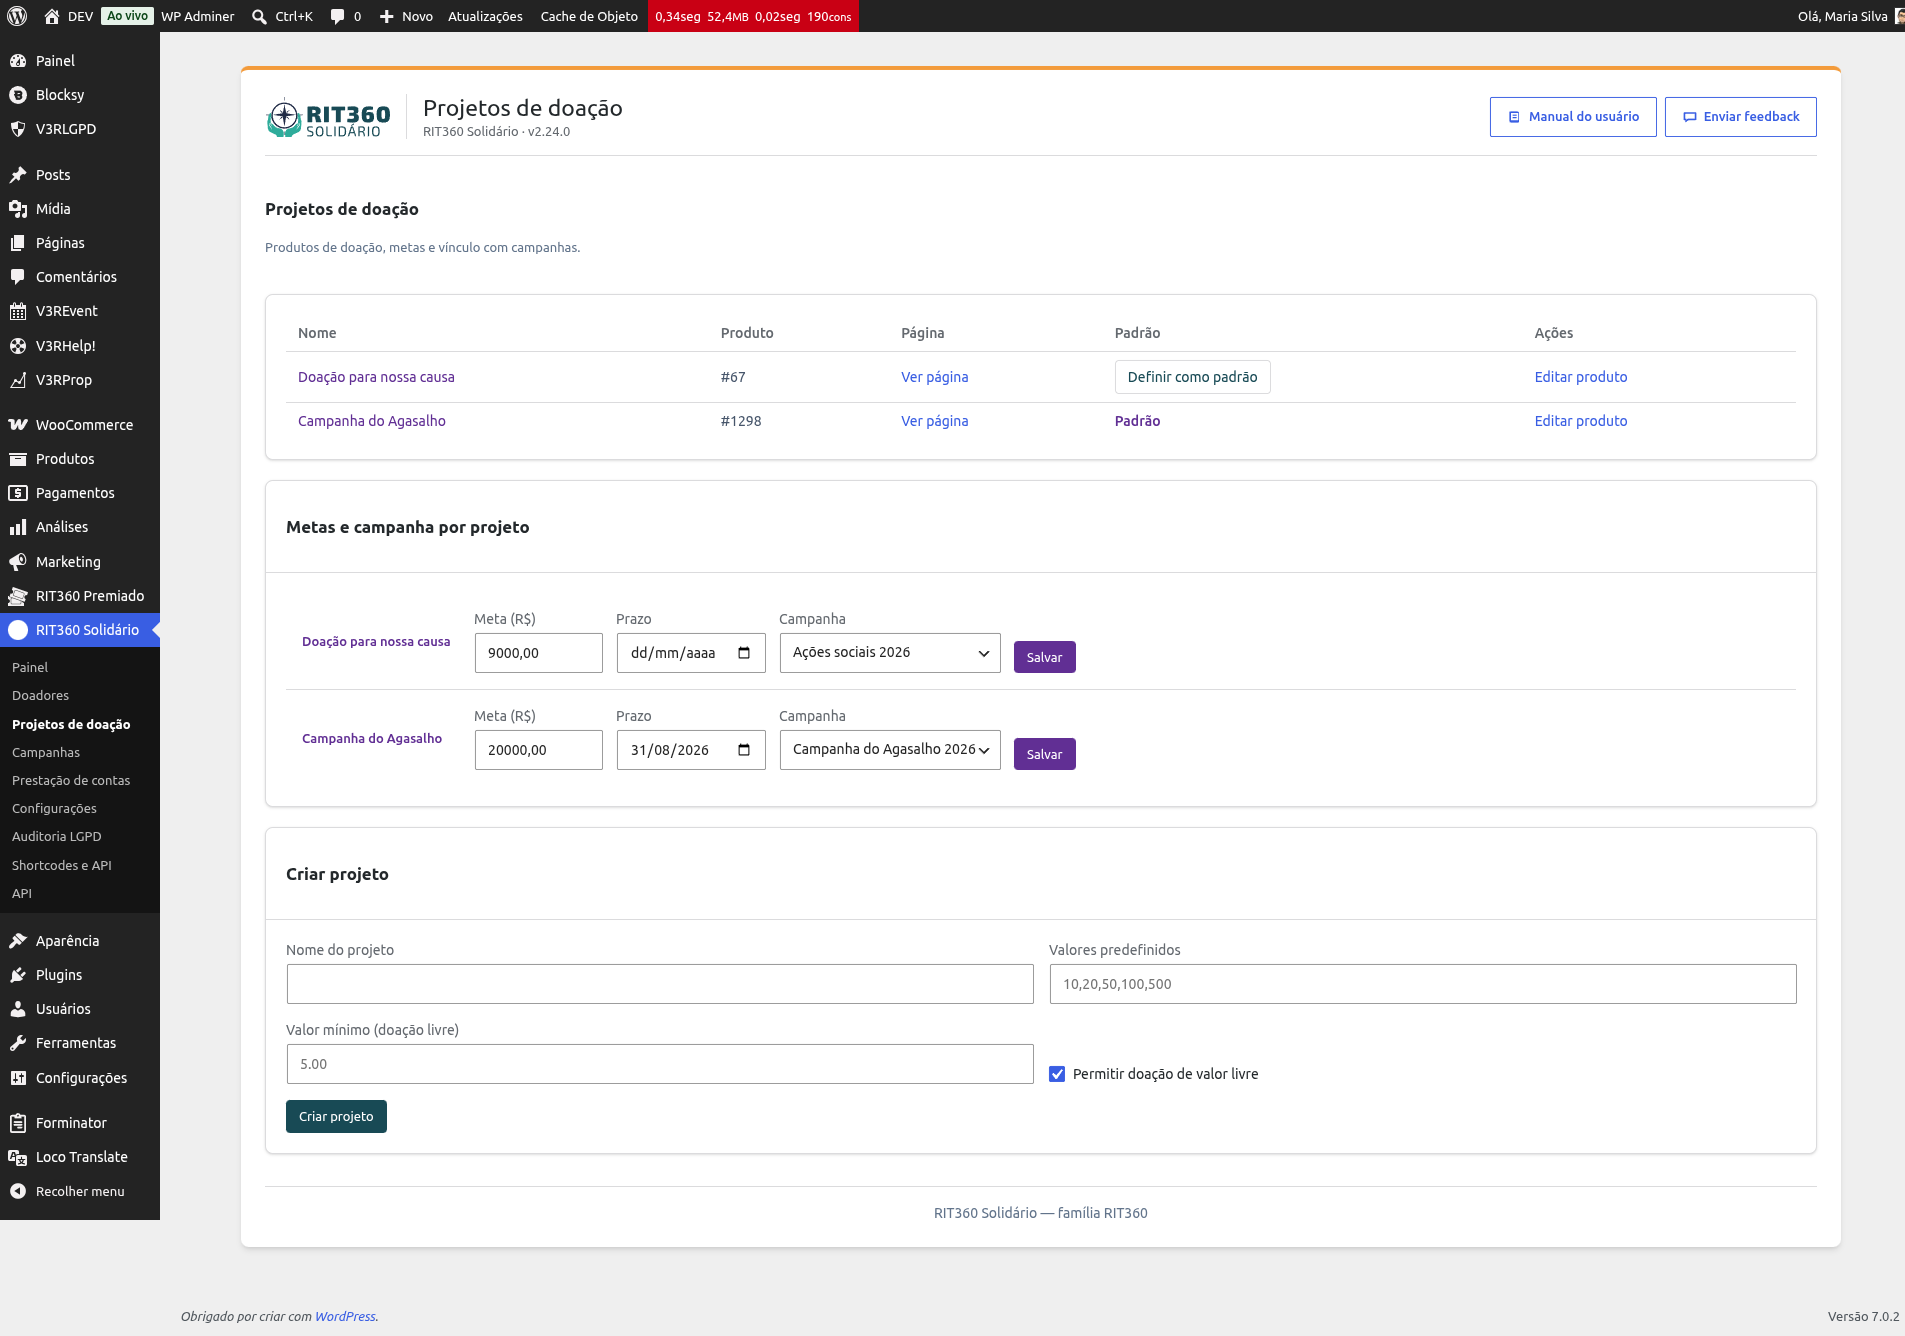
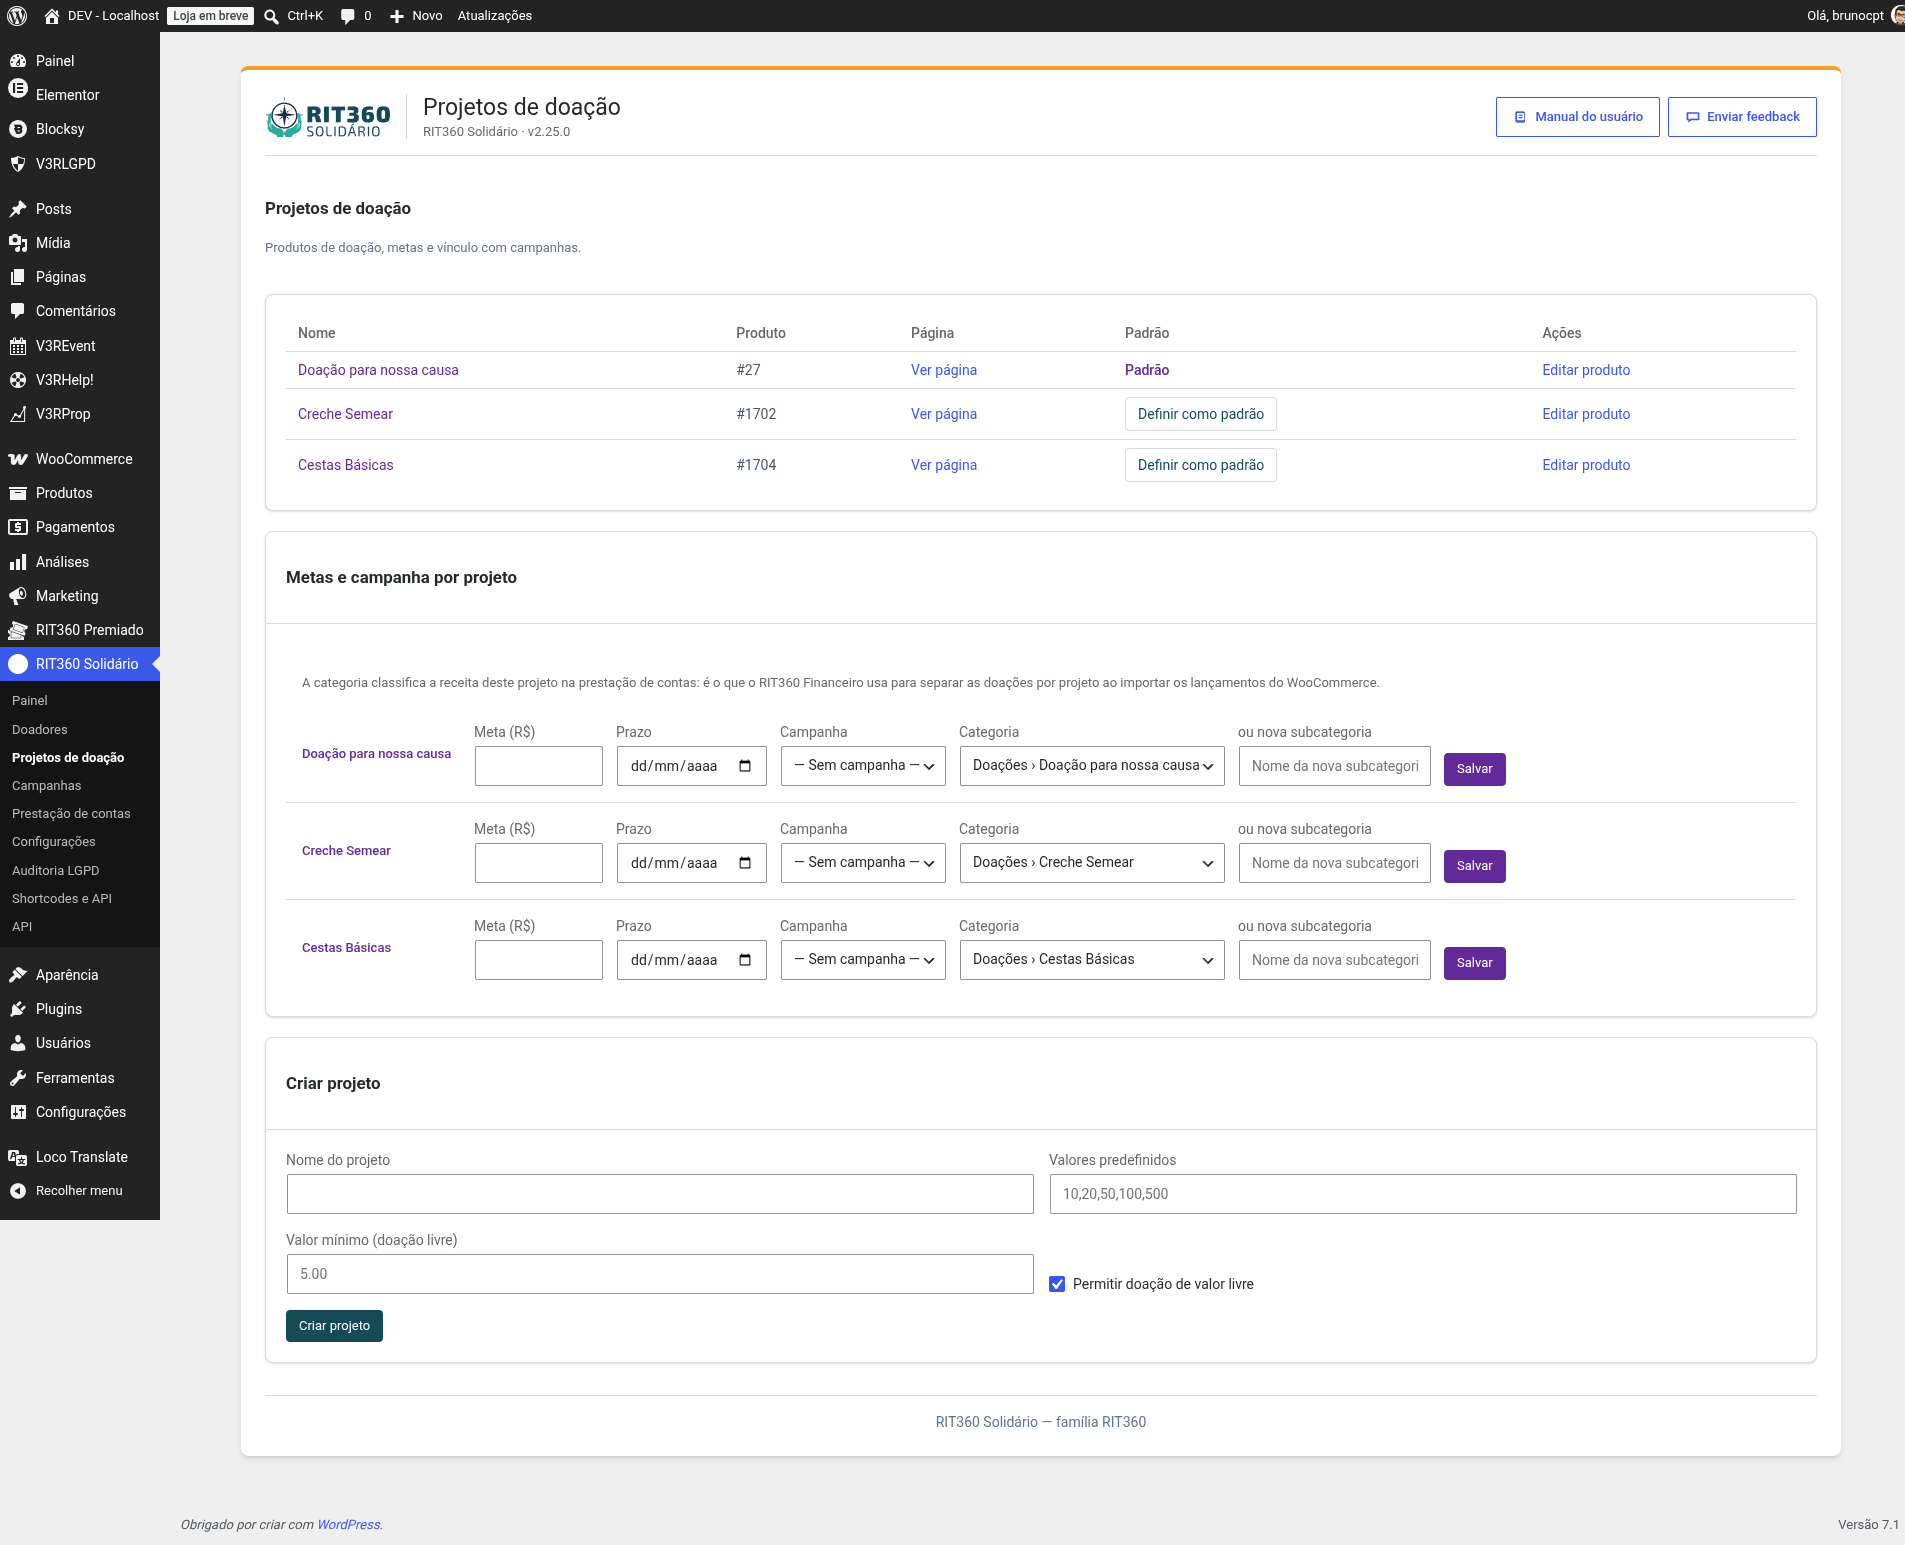
docs(#59): recaptura projetos.png com o campo Categoria + captura mobile
O print anterior era da v2.24.0 e não tinha o campo, contradizendo o
texto novo. Inclui a primeira captura mobile deste manual (375x812).

diff --git a/_manual/roteiro-prints.md b/_manual/roteiro-prints.md
@@ -12,22 +12,11 @@ Destino dos arquivos: `manual/assets/img/`.
 > reusaram o CSS existente (visualmente idênticas). `api-chaves.png` passou a ser
 > capturada (estado "Expirada" + entrega de webhook "failed" com tooltip de erro).
 
-> **Pendente — v2.25.0 (issue #59, categoria por projeto):** `projetos.png`
-> precisa de recaptura — a lista de projetos ganhou a coluna/campo
-> **Categoria**, com a hierarquia `Doações › Nome do projeto` visível.
-> Cenário sugerido: os três projetos de exemplo ("Doação para nossa causa",
-> "Creche Semear", "Cestas Básicas"), com o "Cestas Básicas" mostrando também a
-> categoria "Doações da Igreja" posta à mão — é o exemplo visual de que a
-> categoria do usuário é preservada (ver nota de migração em
-> `modulos/projetos.md`). **Não capturado nesta rodada: sessão de admin
-> indisponível** (esta skill não autentica; ver relatório).
->
-> Foi pedida também uma captura em **mobile** da mesma tela — este manual
-> hoje só declara viewport único (1920×1080, `manual.config.yaml`); não há
-> convenção de screenshot mobile aqui ainda. Sugestão: `projetos-mobile.png`,
-> 375×812 (padrão de celular da família), sem alterar o `viewport` padrão do
-> `manual.config.yaml` — tratar como exceção pontual desta página até haver
-> decisão de estender a convenção. **Também pendente por falta de sessão.**
+> **v2.25.0 (issue #59):** `projetos.png` recapturada com o campo Categoria visível
+> (`Doações › Nome do projeto`), no cenário dos três projetos. Capturada também
+> `projetos-mobile.png` (375×812) — primeira captura mobile deste manual; estender
+> a convenção mobile ao resto é decisão do Bruno.
+
 
 ## Pendências de recaptura (fazer junto da próxima implementação)
 
